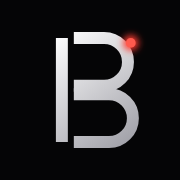
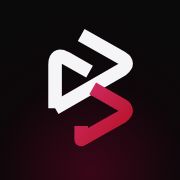
Nova marca: B angular + wordmark brio com círculo magenta; paleta preto #0A0A0A, vermelho #B51224, magenta #D12B65 no site, cadastro, login e ícones
Claude-Session: https://claude.ai/code/session_01J3H3EgfMHTmyFbtNvdJWwL

diff --git a/src/app/sobre/page.tsx b/src/app/sobre/page.tsx
@@ -1,43 +1,43 @@
 import Link from "next/link";
 import type { Metadata } from "next";
-import { BrioMark } from "@/components/brand";
+import { BrioMark, BrioWordmark } from "@/components/brand";
 import { SiteMotion } from "@/components/site/motion";
 import { Pricing } from "@/components/site/pricing";
 
 export const metadata: Metadata = { title: "BRIO · Constância com propósito", description: "Fé, corpo, dinheiro e estudos num só lugar. Missões diárias, sequência e XP que vêm do que você faz de verdade. A partir de R$ 0." };
 
-const FIRE = "linear-gradient(160deg,#ff6a3d,#e0393e 55%,#8a1a1d)";
+const FIRE = "linear-gradient(135deg,#d12b65,#b51224 70%)";
 
 /** Celular com uma miniatura do app (desenhada em código, mostra o que o app faz de verdade). */
 function Phone() {
   return (
     <div className="hero-stage" style={{ perspective: "1400px" }}>
-      <div className="mx-auto w-[280px] sm:w-[310px] rounded-[44px] p-2.5 border border-white/15 bg-[#0b0b0d] shadow-[0_60px_120px_-40px_rgba(224,57,62,.6)]"
+      <div className="mx-auto w-[280px] sm:w-[310px] rounded-[44px] p-2.5 border border-white/15 bg-[#0b0b0d] shadow-[0_60px_120px_-40px_rgba(209,43,101,.6)]"
         style={{ transform: "rotateX(calc((1 - var(--p, 0)) * 18deg)) rotateZ(calc((1 - var(--p, 0)) * -4deg))", transition: "transform .1s linear" }}>
         <div className="rounded-[36px] overflow-hidden bg-black p-3.5 grid gap-2.5" aria-hidden>
           <div className="flex justify-between text-[10px] text-white/60 px-1"><span>9:41</span><span>●●● 5G</span></div>
-          <div className="rounded-2xl p-3 border" style={{ borderColor: "#ff9f0a88", background: "radial-gradient(90% 60% at 50% 0%, #2a1a06, #0b0805)" }}>
+          <div className="rounded-2xl p-3 border" style={{ borderColor: "#d12b6599", background: "radial-gradient(90% 60% at 50% 0%, #3a0618, #0d070a)" }}>
             <div className="flex items-center gap-2">
               <span className="text-2xl">🔥</span>
-              <div><p className="text-[9px] tracking-[.3em] text-[#ff9f0a] font-bold">MISSÃO DIÁRIA · CHAMA</p><p className="text-[12px] font-semibold">Treinamento para ficar mais forte</p></div>
+              <div><p className="text-[9px] tracking-[.3em] text-[#ff4d8a] font-bold">MISSÃO DIÁRIA · CHAMA</p><p className="text-[12px] font-semibold">Treinamento para ficar mais forte</p></div>
             </div>
             <div className="grid grid-cols-3 gap-1.5 mt-2.5 text-center">
-              {[["5", "dias 100%"], ["12", "recorde"], ["4/6", "hoje"]].map(([v, l]) => <div key={l} className="rounded-lg bg-white/5 py-1.5"><p className="num text-base text-[#ffd27a]">{v}</p><p className="text-[8px] text-white/60">{l}</p></div>)}
+              {[["5", "dias 100%"], ["12", "recorde"], ["4/6", "hoje"]].map(([v, l]) => <div key={l} className="rounded-lg bg-white/5 py-1.5"><p className="num text-base text-[#ff4d8a]">{v}</p><p className="text-[8px] text-white/60">{l}</p></div>)}
             </div>
             {["Oração + estudo pessoal", "Treino feito", "Meta de água"].map((t, i) => (
-              <div key={t} className="flex items-center justify-between mt-1.5 rounded-lg px-2 py-1.5 bg-white/[.04] text-[11px]"><span className={i < 2 ? "line-through text-white/50" : ""}>{t}</span><span className="font-mono text-[10px]" style={{ color: i < 2 ? "#ff9f0a" : "#ffffff66" }}>[{i < 2 ? 1 : 0}/1]</span></div>))}
+              <div key={t} className="flex items-center justify-between mt-1.5 rounded-lg px-2 py-1.5 bg-white/[.04] text-[11px]"><span className={i < 2 ? "line-through text-white/50" : ""}>{t}</span><span className="font-mono text-[10px]" style={{ color: i < 2 ? "#ff4d8a" : "#ffffff66" }}>[{i < 2 ? 1 : 0}/1]</span></div>))}
           </div>
           <div className="grid grid-cols-2 gap-2">
-            <div className="rounded-2xl p-2.5 border border-[#e0393e55]" style={{ background: "linear-gradient(160deg,#2a0909,#0a0505)" }}>
-              <p className="text-[8px] tracking-[.25em] text-[#e0393e] font-bold">WAR ROOM</p><p className="text-[12px] font-semibold mt-0.5">Upper A</p>
-              <div className="flex gap-0.5 mt-2">{[1, 1, 1, 0, 0].map((x, i) => <i key={i} className="h-5 flex-1 rounded-sm" style={{ background: x ? "#e0393e" : "#ffffff14" }} />)}</div>
+            <div className="rounded-2xl p-2.5 border border-[#b5122466]" style={{ background: "linear-gradient(160deg,#2a050b,#0a0a0a)" }}>
+              <p className="text-[8px] tracking-[.25em] text-[#ff4d8a] font-bold">WAR ROOM</p><p className="text-[12px] font-semibold mt-0.5">Upper A</p>
+              <div className="flex gap-0.5 mt-2">{[1, 1, 1, 0, 0].map((x, i) => <i key={i} className="h-5 flex-1 rounded-sm" style={{ background: x ? "#d12b65" : "#ffffff14" }} />)}</div>
             </div>
-            <div className="rounded-2xl p-2.5 border border-[#30d15855] bg-[#06120a]">
-              <p className="text-[8px] tracking-[.25em] text-[#30d158] font-bold">DIETA</p><p className="num text-[18px] mt-0.5">1.840</p><p className="text-[9px] text-white/60">de 2.500 kcal</p>
+            <div className="rounded-2xl p-2.5 border border-white/10 bg-white/[.03]">
+              <p className="text-[8px] tracking-[.25em] text-[#ff4d8a] font-bold">DIETA</p><p className="num text-[18px] mt-0.5">1.840</p><p className="text-[9px] text-white/60">de 2.500 kcal</p>
             </div>
           </div>
-          <div className="rounded-2xl p-2.5 border border-[#5ab0ff44] bg-[#060a12] flex items-center gap-2">
-            <span className="h-7 w-7 rounded-lg grid place-items-center text-xs" style={{ background: "linear-gradient(135deg,#5ab0ff,#bf5af2)" }}>✦</span>
+          <div className="rounded-2xl p-2.5 border border-[#d12b6544] bg-[#0d070a] flex items-center gap-2">
+            <span className="h-7 w-7 rounded-lg grid place-items-center text-xs" style={{ background: "linear-gradient(135deg,#d12b65,#b51224)" }}>✦</span>
             <p className="text-[11px] text-white/80">“reunião quinta 19h30 e dentista sábado” → <b className="text-white">2 compromissos</b></p>
           </div>
         </div>
@@ -47,12 +47,12 @@ function Phone() {
 }
 
 const BENTO = [
-  { t: "Comece o dia sabendo o que importa", f: "missão diária", c: "#ffb340", big: true, d: "Uma lista curta de objetivos com sequência, recorde e contagem até a meia-noite. O fogo cresce com a sua constância.", tex: "radial-gradient(70% 60% at 30% 20%, rgba(255,179,64,.25), transparent 70%)" },
-  { t: "Treine com plano, não com palpite", f: "war room · periodização", c: "#e0393e", wide: true, d: "Campanha em fases, sugestão de carga por série e um treino guiado com cronômetro.", tex: "repeating-linear-gradient(90deg, rgba(224,57,62,.08) 0 2px, transparent 2px 14px)" },
-  { t: "Coma o que planejou (e registre o que não)", f: "dieta", c: "#30d158", d: "Metas de macros, refeições salvas e o que foi fora do plano, sem culpa.", tex: "radial-gradient(60% 60% at 80% 100%, rgba(48,209,88,.22), transparent 70%)" },
-  { t: "Fale e a agenda se organiza", f: "central de operações · IA", c: "#5ab0ff", d: "Linha do tempo do dia, Google Agenda em duas vias e IA que transforma frase em compromisso.", tex: "radial-gradient(50% 50% at 50% 50%, rgba(90,176,255,.18), transparent 60%)" },
-  { t: "Seu dinheiro sem surpresa", f: "finanças · parcelas", c: "#3ee6c1", wide: true, d: "Orçamento por categoria, compras parceladas que fecham no centavo e um assistente que lê seus números.", tex: "linear-gradient(180deg, rgba(62,230,193,.12), transparent 60%)" },
-  { t: "Estude até fechar", f: "central de estudos", c: "#bf5af2", wide: true, d: "Objetivo, fraquezas, plano feito pela IA, revisão espaçada e o próximo passo sempre à vista.", tex: "radial-gradient(70% 60% at 20% 100%, rgba(191,90,242,.22), transparent 70%)" },
+  { t: "Comece o dia sabendo o que importa", f: "missão diária", c: "#ff4d8a", big: true, d: "Uma lista curta de objetivos com sequência, recorde e contagem até a meia-noite. O fogo cresce com a sua constância.", tex: "radial-gradient(70% 60% at 30% 20%, rgba(209,43,101,.28), transparent 70%)" },
+  { t: "Treine com plano, não com palpite", f: "war room · periodização", c: "#ff4d8a", wide: true, d: "Campanha em fases, sugestão de carga por série e um treino guiado com cronômetro.", tex: "repeating-linear-gradient(90deg, rgba(181,18,36,.12) 0 2px, transparent 2px 14px)" },
+  { t: "Coma o que planejou (e registre o que não)", f: "dieta", c: "#ff4d8a", d: "Metas de macros, refeições salvas e o que foi fora do plano, sem culpa.", tex: "radial-gradient(60% 60% at 80% 100%, rgba(181,18,36,.24), transparent 70%)" },
+  { t: "Fale e a agenda se organiza", f: "central de operações · IA", c: "#ff4d8a", d: "Linha do tempo do dia, Google Agenda em duas vias e IA que transforma frase em compromisso.", tex: "radial-gradient(50% 50% at 50% 50%, rgba(209,43,101,.2), transparent 60%)" },
+  { t: "Seu dinheiro sem surpresa", f: "finanças · parcelas", c: "#ff4d8a", wide: true, d: "Orçamento por categoria, compras parceladas que fecham no centavo e um assistente que lê seus números.", tex: "linear-gradient(180deg, rgba(181,18,36,.16), transparent 60%)" },
+  { t: "Estude até fechar", f: "central de estudos", c: "#ff4d8a", wide: true, d: "Objetivo, fraquezas, plano feito pela IA, revisão espaçada e o próximo passo sempre à vista.", tex: "radial-gradient(70% 60% at 20% 100%, rgba(181,18,36,.22), transparent 70%)" },
 ];
 const FAQ = [
   ["Preciso de cartão para testar?", "Não. Você cria a conta, usa 14 dias com tudo liberado e decide depois."],
@@ -69,7 +69,7 @@ export default function Site() {
       {/* topo */}
       <nav className="sticky top-0 z-40 backdrop-blur-xl bg-black/60 border-b border-white/5">
         <div className="max-w-6xl mx-auto px-4 h-16 flex items-center justify-between">
-          <Link href="/sobre" className="flex items-center gap-2"><BrioMark size={30} glow={false} /><span className="font-display tracking-[.2em] text-lg">BRIO</span></Link>
+          <Link href="/sobre" className="flex items-center gap-2"><BrioWordmark height={26} /></Link>
           <div className="flex items-center gap-1 sm:gap-2">
             <a href="#planos" className="hidden sm:inline-flex min-h-11 items-center px-3 text-sm text-muted hover:text-ink">Planos</a>
             <Link href="/login" className="min-h-11 inline-flex items-center px-3 text-sm">Entrar</Link>
@@ -80,13 +80,13 @@ export default function Site() {
 
       {/* hero */}
       <section className="relative max-w-6xl mx-auto px-4 pt-12 sm:pt-20 pb-10 grid lg:grid-cols-2 gap-10 items-center">
-        <div className="absolute inset-x-0 -top-20 h-[520px] -z-10 pointer-events-none" style={{ background: "radial-gradient(50% 50% at 30% 30%, rgba(255,106,61,.22), transparent 70%), radial-gradient(40% 40% at 80% 20%, rgba(191,90,242,.18), transparent 70%)" }} />
+        <div className="absolute inset-x-0 -top-20 h-[520px] -z-10 pointer-events-none" style={{ background: "radial-gradient(50% 50% at 30% 30%, rgba(209,43,101,.24), transparent 70%), radial-gradient(40% 40% at 80% 20%, rgba(181,18,36,.2), transparent 70%)" }} />
         <div className="text-center lg:text-left">
-          <p className="in text-[11px] font-bold tracking-[.35em] text-[#ff9f0a]" data-i="0">CONSTÂNCIA COM PROPÓSITO</p>
-          <h1 className="in font-display text-[clamp(40px,8vw,72px)] leading-[1.02] mt-4" data-i="1">Faça o certo de novo amanhã.<br /><span className="bg-clip-text text-transparent" style={{ backgroundImage: "linear-gradient(90deg,#ffd27a,#ff6a3d,#e0393e)" }}>E veja isso crescer.</span></h1>
+          <p className="in text-[11px] font-bold tracking-[.35em] text-[#ff4d8a]" data-i="0">CONSTÂNCIA COM PROPÓSITO</p>
+          <h1 className="in font-display text-[clamp(40px,8vw,72px)] leading-[1.02] mt-4" data-i="1">Faça o certo de novo amanhã.<br /><span className="bg-clip-text text-transparent" style={{ backgroundImage: "linear-gradient(90deg,#ff4d8a,#d12b65,#b51224)" }}>E veja isso crescer.</span></h1>
           <p className="in text-lg text-white/75 mt-5 max-w-xl mx-auto lg:mx-0" data-i="2">Fé, treino, dieta, dinheiro e estudos num app só. Missões curtas todo dia, sequência que vira fogo e XP que vem do que você faz de verdade.</p>
           <div className="in flex flex-col sm:flex-row gap-3 mt-8 justify-center lg:justify-start" data-i="3">
-            <Link href="/cadastro?plano=essencial" className="min-h-14 px-8 rounded-2xl grid place-items-center font-semibold text-white press" style={{ background: FIRE, boxShadow: "0 18px 40px -16px #e0393e" }}>Testar 14 dias grátis</Link>
+            <Link href="/cadastro?plano=essencial" className="min-h-14 px-8 rounded-2xl grid place-items-center font-semibold text-white press" style={{ background: FIRE, boxShadow: "0 18px 40px -16px #d12b65" }}>Testar 14 dias grátis</Link>
             <a href="#planos" className="min-h-14 px-8 rounded-2xl grid place-items-center border border-white/15 press">Ver planos · a partir de R$ 0</a>
           </div>
           <p className="in text-xs text-muted mt-4" data-i="4">Sem cartão. Funciona no celular e no computador.</p>
@@ -105,7 +105,7 @@ export default function Site() {
               <p className="font-mono text-[11px] uppercase tracking-wider" style={{ color: b.c }}>{b.f}</p>
               <h3 className={`font-display mt-2 leading-tight ${b.big ? "text-3xl" : "text-xl"}`}>{b.t}</h3>
               <p className="text-sm text-white/70 mt-2">{b.d}</p>
-              {b.big && <div className="mt-6 flex items-end gap-3" aria-hidden>{["#f5f7ff", "#ffd27a", "#ff9f0a", "#ff6a1a", "#ff3b30", "#bf5af2"].map((c, k) => <span key={c} className="text-[28px] leading-none" style={{ filter: `drop-shadow(0 0 ${6 + k * 3}px ${c})`, fontSize: 18 + k * 6 }}>🔥</span>)}</div>}
+              {b.big && <div className="mt-6 flex items-end gap-3" aria-hidden>{["#f5f5f7", "#ff8fb5", "#ff4d8a", "#d12b65", "#b51224", "#7a0c18"].map((c, k) => <span key={c} className="text-[28px] leading-none" style={{ filter: `drop-shadow(0 0 ${6 + k * 3}px ${c})`, fontSize: 18 + k * 6 }}>🔥</span>)}</div>}
             </article>))}
         </div>
       </section>
@@ -116,7 +116,7 @@ export default function Site() {
         <ol className="grid md:grid-cols-3 gap-4 mt-10">
           {[["1", "Abra e veja a missão", "Poucos objetivos, o principal em destaque e quanto tempo falta para o dia acabar."], ["2", "Faça e registre", "Treino guiado, refeição com um toque, estudo com cronômetro. Cada registro vira XP."], ["3", "Veja o fogo crescer", "Sequência que muda de cor, patentes, eventos semanais e um bestiário de vitórias."]].map(([n, t, d], i) => (
             <li key={n} data-i={i} className="in rounded-[26px] p-6 border border-white/10 bg-white/[.03]">
-              <span className="num text-4xl bg-clip-text text-transparent" style={{ backgroundImage: "linear-gradient(90deg,#ffd27a,#ff6a3d)" }}>{n}</span>
+              <span className="num text-4xl bg-clip-text text-transparent" style={{ backgroundImage: "linear-gradient(90deg,#ff4d8a,#d12b65)" }}>{n}</span>
               <h3 className="font-display text-xl mt-2">{t}</h3><p className="text-sm text-white/70 mt-1">{d}</p>
             </li>))}
         </ol>
@@ -124,7 +124,7 @@ export default function Site() {
 
       {/* planos */}
       <section id="planos" className="max-w-6xl mx-auto px-4 py-16 scroll-mt-20">
-        <p className="in text-center text-[11px] font-bold tracking-[.35em] text-[#ff9f0a]">PLANOS</p>
+        <p className="in text-center text-[11px] font-bold tracking-[.35em] text-[#ff4d8a]">PLANOS</p>
         <h2 className="in font-display text-[clamp(30px,5vw,48px)] text-center mt-3">Preço de hábito, não de luxo.</h2>
         <p className="in text-center text-white/70 mt-2">Comece de graça. Suba de plano quando fizer sentido.</p>
         <div className="mt-8"><Pricing /></div>
@@ -144,17 +144,17 @@ export default function Site() {
 
       {/* cta final */}
       <section className="max-w-6xl mx-auto px-4 py-20">
-        <div className="in relative rounded-[36px] p-10 sm:p-16 text-center overflow-hidden border border-[#ff6a3d55]" style={{ background: "radial-gradient(80% 90% at 50% 120%, rgba(255,106,61,.45), transparent 60%), #0c0705" }}>
+        <div className="in relative rounded-[36px] p-10 sm:p-16 text-center overflow-hidden border border-[#d12b6566]" style={{ background: "radial-gradient(80% 90% at 50% 120%, rgba(181,18,36,.5), transparent 60%), #0d0609" }}>
           <div className="mx-auto w-fit"><BrioMark size={72} /></div>
           <h2 className="font-display text-[clamp(30px,6vw,56px)] mt-6 leading-tight">Hoje é o dia 1.</h2>
           <p className="text-white/75 mt-3 max-w-md mx-auto">O que você fizer de toda a alma hoje vira a base de amanhã.</p>
-          <Link href="/cadastro?plano=essencial" className="inline-grid place-items-center min-h-14 px-10 mt-8 rounded-2xl font-semibold text-white press" style={{ background: FIRE, boxShadow: "0 18px 40px -16px #e0393e" }}>Criar minha conta grátis</Link>
+          <Link href="/cadastro?plano=essencial" className="inline-grid place-items-center min-h-14 px-10 mt-8 rounded-2xl font-semibold text-white press" style={{ background: FIRE, boxShadow: "0 18px 40px -16px #d12b65" }}>Criar minha conta grátis</Link>
         </div>
       </section>
 
       <footer className="border-t border-white/5">
         <div className="max-w-6xl mx-auto px-4 py-8 flex flex-col sm:flex-row gap-3 items-center justify-between text-sm text-muted">
-          <span className="flex items-center gap-2"><BrioMark size={22} glow={false} /> BRIO · Vigor com honra</span>
+          <span className="flex items-center gap-3"><BrioWordmark height={18} /> Vigor com honra</span>
           <span className="flex gap-4"><Link href="/privacidade" className="hover:text-ink min-h-11 inline-flex items-center">Privacidade</Link><Link href="/termos" className="hover:text-ink min-h-11 inline-flex items-center">Termos</Link><Link href="/login" className="hover:text-ink min-h-11 inline-flex items-center">Entrar</Link></span>
         </div>
       </footer>

diff --git a/src/components/site/signup.tsx b/src/components/site/signup.tsx
@@ -3,15 +3,15 @@ import Link from "next/link";
 import { useSearchParams } from "next/navigation";
 import { useActionState, useState } from "react";
 import { signUp, type SignUpState } from "@/app/actions";
-import { BrioMark } from "@/components/brand";
+import { BrioMark, BrioWordmark } from "@/components/brand";
 import { PLANS, brlPrice, planById } from "@/lib/plans";
 
-const FIRE = "linear-gradient(160deg,#ff6a3d,#e0393e 55%,#8a1a1d)";
+const FIRE = "linear-gradient(135deg,#d12b65,#b51224 70%)";
 const AREAS = [
-  { id: "espiritual", e: "📖", t: "Vida espiritual", c: "#ffb340" }, { id: "ministerio", e: "💬", t: "Ministério", c: "#0a84ff" },
-  { id: "treino", e: "🏋", t: "Treino", c: "#e0393e" }, { id: "dieta", e: "🥗", t: "Dieta", c: "#30d158" },
-  { id: "financas", e: "💰", t: "Finanças", c: "#3ee6c1" }, { id: "estudos", e: "🎓", t: "Estudos", c: "#bf5af2" },
-  { id: "agenda", e: "📅", t: "Agenda", c: "#5ab0ff" }, { id: "habitos", e: "🔥", t: "Hábitos", c: "#ff9f0a" },
+  { id: "espiritual", e: "📖", t: "Vida espiritual", c: "#d12b65" }, { id: "ministerio", e: "💬", t: "Ministério", c: "#d12b65" },
+  { id: "treino", e: "🏋", t: "Treino", c: "#d12b65" }, { id: "dieta", e: "🥗", t: "Dieta", c: "#d12b65" },
+  { id: "financas", e: "💰", t: "Finanças", c: "#d12b65" }, { id: "estudos", e: "🎓", t: "Estudos", c: "#d12b65" },
+  { id: "agenda", e: "📅", t: "Agenda", c: "#d12b65" }, { id: "habitos", e: "🔥", t: "Hábitos", c: "#d12b65" },
 ];
 const STEPS = ["Você", "Foco", "Plano"];
 
@@ -50,7 +50,7 @@ export function SignUpFlow() {
         <ol className="flex gap-2" aria-label="Etapas do cadastro">
           {STEPS.map((s, i) => (
             <li key={s} className="flex-1" aria-current={i === step ? "step" : undefined}>
-              <span className="block h-1.5 rounded-full transition-all duration-500" style={{ background: i <= step ? "linear-gradient(90deg,#ffd27a,#ff6a3d)" : "rgba(255,255,255,.1)", boxShadow: i === step ? "0 0 12px #ff6a3d" : "none" }} />
+              <span className="block h-1.5 rounded-full transition-all duration-500" style={{ background: i <= step ? "linear-gradient(90deg,#ff4d8a,#d12b65)" : "rgba(255,255,255,.1)", boxShadow: i === step ? "0 0 12px #d12b65" : "none" }} />
               <span className={`block text-[11px] mt-1.5 ${i === step ? "text-ink font-semibold" : "text-muted"}`}>{i + 1}. {s}</span>
             </li>))}
         </ol>
@@ -96,9 +96,9 @@ export function SignUpFlow() {
             {PLANS.map((p) => { const on = plan === p.id; return (
               <button key={p.id} type="button" role="radio" aria-checked={on} onClick={() => setPlan(p.id)}
                 className="press relative rounded-2xl p-4 text-left border transition-all"
-                style={{ borderColor: on ? "#ff6a3d" : "rgba(255,255,255,.1)", background: on ? "linear-gradient(160deg, rgba(255,106,61,.18), transparent 80%)" : "rgba(255,255,255,.03)" }}>
+                style={{ borderColor: on ? "#d12b65" : "rgba(255,255,255,.1)", background: on ? "linear-gradient(160deg, rgba(209,43,101,.18), transparent 80%)" : "rgba(255,255,255,.03)" }}>
                 <span className="flex items-center justify-between gap-3">
-                  <span><span className="font-semibold">{p.name}</span>{p.highlight && <span className="ml-2 text-[10px] font-bold tracking-wider text-[#ff9f0a]">MAIS ESCOLHIDO</span>}<span className="block text-xs text-muted mt-0.5">{p.tagline}</span></span>
+                  <span><span className="font-semibold">{p.name}</span>{p.highlight && <span className="ml-2 text-[10px] font-bold tracking-wider text-[#ff4d8a]">MAIS ESCOLHIDO</span>}<span className="block text-xs text-muted mt-0.5">{p.tagline}</span></span>
                   <span className="text-right shrink-0"><span className="num text-xl">{brlPrice(p.price)}</span>{p.price > 0 && <span className="text-xs text-muted">/mês</span>}</span>
                 </span>
                 {on && <span className="block text-xs text-white/70 mt-2">{p.features.slice(p.id === "gratis" ? 0 : 1, p.id === "gratis" ? 3 : 4).join(" · ")}</span>}
@@ -112,7 +112,7 @@ export function SignUpFlow() {
         <div className="flex gap-2">
           {step > 0 && <button type="button" className="btn !min-h-14 px-5" onClick={() => setStep(step - 1)}>Voltar</button>}
           <button type="submit" disabled={pending || (step === 0 && !can0) || (step === 1 && !focus.length)}
-            className="flex-1 min-h-14 rounded-2xl font-semibold text-white press disabled:opacity-40" style={{ background: FIRE, boxShadow: "0 14px 34px -14px #e0393e" }}>
+            className="flex-1 min-h-14 rounded-2xl font-semibold text-white press disabled:opacity-40" style={{ background: FIRE, boxShadow: "0 14px 34px -14px #d12b65" }}>
             {pending ? "Criando sua conta…" : step < 2 ? "Continuar" : `Criar conta${plan !== "gratis" ? " e testar grátis" : ""}`}
           </button>
         </div>
@@ -126,19 +126,19 @@ function Shell({ children }: { children: React.ReactNode }) {
   return (
     <main className="min-h-dvh grid lg:grid-cols-[1.05fr_1fr]">
       {/* painel da marca (desktop) */}
-      <aside className="hidden lg:flex relative overflow-hidden flex-col justify-between p-12 border-r border-white/5" style={{ background: "radial-gradient(80% 60% at 30% 100%, rgba(255,106,61,.35), transparent 60%), radial-gradient(60% 50% at 90% 10%, rgba(191,90,242,.22), transparent 60%), #070506" }}>
-        <Link href="/sobre" className="flex items-center gap-2 w-fit"><BrioMark size={34} glow={false} /><span className="font-display tracking-[.2em] text-lg">BRIO</span></Link>
+      <aside className="hidden lg:flex relative overflow-hidden flex-col justify-between p-12 border-r border-white/5" style={{ background: "radial-gradient(80% 60% at 30% 100%, rgba(209,43,101,.34), transparent 60%), radial-gradient(60% 50% at 90% 10%, rgba(181,18,36,.22), transparent 60%), #0a0a0a" }}>
+        <Link href="/sobre" className="flex items-center gap-2 w-fit"><BrioWordmark height={30} /></Link>
         <div>
           <p className="font-display text-5xl leading-[1.05]">Constância<br />com propósito.</p>
           <ul className="grid gap-3 mt-8 text-white/80">
-            {["Missão diária curta, com o principal em destaque", "Sequência que vira fogo e XP do que é real", "Fé, treino, dieta, dinheiro e estudos num lugar"].map((t) => <li key={t} className="flex gap-3"><span className="text-[#ff9f0a]">✦</span>{t}</li>)}
+            {["Missão diária curta, com o principal em destaque", "Sequência que vira fogo e XP do que é real", "Fé, treino, dieta, dinheiro e estudos num lugar"].map((t) => <li key={t} className="flex gap-3"><span className="text-[#ff4d8a]">✦</span>{t}</li>)}
           </ul>
         </div>
         <p className="text-sm text-white/60 italic">“Tudo o que fizerem, trabalhem nisso de toda a alma.” — Colossenses 3:23</p>
       </aside>
       <section className="relative flex flex-col px-5 py-8 sm:px-10 lg:px-16 lg:py-14">
-        <div className="absolute inset-x-0 top-0 h-72 -z-10 lg:hidden" style={{ background: "radial-gradient(60% 80% at 50% 0%, rgba(255,106,61,.25), transparent 70%)" }} />
-        <Link href="/sobre" className="flex items-center gap-2 lg:hidden w-fit"><BrioMark size={30} glow={false} /><span className="font-display tracking-[.2em]">BRIO</span></Link>
+        <div className="absolute inset-x-0 top-0 h-72 -z-10 lg:hidden" style={{ background: "radial-gradient(60% 80% at 50% 0%, rgba(209,43,101,.26), transparent 70%)" }} />
+        <Link href="/sobre" className="flex items-center gap-2 lg:hidden w-fit"><BrioWordmark height={24} /></Link>
         <div className="w-full max-w-md mx-auto my-auto pt-8 lg:pt-0">{children}</div>
       </section>
     </main>

diff --git a/src/components/brand.tsx b/src/components/brand.tsx
@@ -1,18 +1,37 @@
-import { useId } from "react";
-/** Marca do BRIO (Lâmina): B geométrico partido, com o ponto aceso. */
+/** Marca BRIO (preto + vermelho): "b" geométrico com o círculo vermelho. Vetorial, sem depender de fonte. */
+export const BRAND_RED = "#d12b65";
+
+/** Símbolo: B angular em forma de "play" (traço claro) com o arco inferior em magenta. */
 export function BrioMark({ size = 96, glow = true }: { size?: number; glow?: boolean }) {
-  const gid = "brio-g" + useId().replace(/:/g, "");
   return (
-    <svg width={size} height={size} viewBox="0 0 512 512" aria-hidden style={glow ? { filter: "drop-shadow(0 0 22px rgba(255,255,255,.12))" } : undefined}>
-      <defs>
-        <linearGradient id={gid} gradientUnits="userSpaceOnUse" x1="150" y1="100" x2="400" y2="420"><stop offset="0" stopColor="#ffffff" /><stop offset="1" stopColor="#9a9aa2" /></linearGradient>
-      </defs>
-      <g fill="none" stroke={`url(#${gid})`} strokeWidth="34">
-        <path className="brio-rise" d="M176 108v296" />
-        <path className="brio-rise" style={{ animationDelay: ".12s" }} d="M210 108h86a68 68 0 0 1 0 136h-86" />
-        <path className="brio-rise" style={{ animationDelay: ".24s" }} d="M210 268h100a68 68 0 0 1 0 136h-100" />
+    <svg width={size} height={size} viewBox="14 6 96 112" aria-hidden style={glow ? { filter: "drop-shadow(0 0 18px rgba(209,43,101,.5))" } : undefined}>
+      <g fill="none" strokeWidth="13" strokeLinejoin="round">
+        <path d="M52 12 L91 34 Q99 39 91 45 L27 82" stroke="currentColor" />
+        <path d="M27 82 V40 Q27 29 37 34 L60 47" stroke="currentColor" />
+        <path className="brio-rise" d="M63 63 L91 79 Q99 84 91 90 L52 112 V99" stroke={BRAND_RED} />
       </g>
-      <circle className="brio-ember" cx="372" cy="122" r="14" fill="#ff453a" style={{ filter: "drop-shadow(0 0 10px #ff3b30)" }} />
+    </svg>
+  );
+}
+
+/** Logotipo por extenso: brio + círculo vermelho. */
+export function BrioWordmark({ height = 28, className = "" }: { height?: number; className?: string }) {
+  return (
+    <svg height={height} viewBox="0 0 282 110" className={className} role="img" aria-label="brio">
+      <g fill="currentColor">
+        <path d="M8 6l20 12v82H8z" />
+        <path d="M80 100h-20V48h20v8c6-7 13-10 24-10v20c-15 0-24 6-24 22z" transform="translate(-0 0)" opacity="0" />
+      </g>
+      <g fill="none" stroke="currentColor" strokeWidth="19">
+        <circle cx="50" cy="74" r="24" />
+        <circle cx="218" cy="74" r="24" />
+      </g>
+      <g fill="currentColor">
+        <path d="M95 50h19v50H95z" />
+        <path d="M114 70c0-14 9-22 26-22v19c-12 0-17 5-17 15v18h-9z" />
+        <path d="M150 50h19v50h-19z" />
+      </g>
+      <circle className="brio-ember" cx="267" cy="96" r="9" fill="none" stroke={BRAND_RED} strokeWidth="7" />
     </svg>
   );
 }

diff --git a/src/components/site/pricing.tsx b/src/components/site/pricing.tsx
@@ -17,8 +17,8 @@ export function Pricing() {
       <div className="grid md:grid-cols-3 gap-4 mt-8 items-stretch">
         {PLANS.map((p, i) => (
           <div key={p.id} data-i={i} className={`in tilt relative rounded-[28px] p-6 border flex flex-col ${p.highlight ? "md:-translate-y-3" : ""}`}
-            style={{ borderColor: p.highlight ? "#ff6a3d" : "rgba(255,255,255,.1)", background: p.highlight ? "radial-gradient(120% 80% at 50% 0%, rgba(255,106,61,.22), #0c0907 70%)" : "linear-gradient(170deg, rgba(255,255,255,.06), #0b0b0d 60%)", boxShadow: p.highlight ? "0 30px 80px -40px #ff6a3d" : "none" }}>
-            {p.highlight && <span className="absolute -top-3 left-1/2 -translate-x-1/2 text-[11px] font-bold tracking-[.2em] rounded-full px-3 py-1 text-black" style={{ background: "linear-gradient(90deg,#ffd27a,#ff6a3d)" }}>MAIS ESCOLHIDO</span>}
+            style={{ borderColor: p.highlight ? "#d12b65" : "rgba(255,255,255,.1)", background: p.highlight ? "radial-gradient(120% 80% at 50% 0%, rgba(209,43,101,.24), #0d070a 70%)" : "linear-gradient(170deg, rgba(255,255,255,.06), #0b0b0d 60%)", boxShadow: p.highlight ? "0 30px 80px -40px #d12b65" : "none" }}>
+            {p.highlight && <span className="absolute -top-3 left-1/2 -translate-x-1/2 text-[11px] font-bold tracking-[.2em] rounded-full px-3 py-1 text-black" style={{ background: "linear-gradient(90deg,#ff4d8a,#d12b65)" }}>MAIS ESCOLHIDO</span>}
             <p className="font-display text-2xl">{p.name}</p>
             <p className="text-sm text-muted mt-1">{p.tagline}</p>
             <p className="mt-5 flex items-baseline gap-1">
@@ -30,7 +30,7 @@ export function Pricing() {
               {p.features.map((f) => <li key={f} className="flex gap-2"><span aria-hidden className="text-[#30d158] mt-0.5">✓</span><span>{f}</span></li>)}
             </ul>
             <Link href={`/cadastro?plano=${p.id}`} className="mt-6 min-h-12 rounded-2xl grid place-items-center font-semibold press"
-              style={p.highlight ? { background: "linear-gradient(160deg,#ff6a3d,#e0393e 55%,#8a1a1d)", color: "#fff", boxShadow: "0 14px 34px -14px #e0393e" } : { border: "1px solid rgba(255,255,255,.15)" }}>
+              style={p.highlight ? { background: "linear-gradient(135deg,#d12b65,#b51224 70%)", color: "#fff", boxShadow: "0 14px 34px -14px #d12b65" } : { border: "1px solid rgba(255,255,255,.15)" }}>
               {p.price ? "Testar 14 dias grátis" : "Começar grátis"}</Link>
           </div>))}
       </div>

diff --git a/src/app/login/page.tsx b/src/app/login/page.tsx
@@ -3,7 +3,7 @@ import Link from "next/link";
 import { Suspense, useActionState, useState } from "react";
 import { useSearchParams } from "next/navigation";
 import { signIn } from "@/app/actions";
-import { BrioMark } from "@/components/brand";
+import { BrioMark, BrioWordmark } from "@/components/brand";
 
 const AVISOS: Record<string, string> = {
   config: "Faltam as variáveis do Supabase na Vercel. Adicione e faça um novo deploy.",
@@ -22,8 +22,8 @@ export default function Login() {
     <main className="min-h-dvh brio-aura grid place-items-center px-4 py-10">
       <div className="w-full max-w-sm">
         <div className="flex flex-col items-center rise">
-          <BrioMark size={112} />
-          <h1 className="font-display text-5xl tracking-[.2em] mt-5 pl-[.2em]">BRIO</h1>
+          <BrioMark size={84} />
+          <h1 className="mt-6"><span className="sr-only">BRIO</span><BrioWordmark height={44} /></h1>
           <p className="text-muted mt-2 text-sm tracking-wide">Vigor com honra.</p>
         </div>
         <Suspense><Aviso /></Suspense>
@@ -35,7 +35,7 @@ export default function Login() {
           </div>
           {error && <p role="alert" className="text-sm text-[#ff6961]">{error}</p>}
           <button disabled={pending} className="press min-h-14 rounded-2xl text-base font-semibold text-white disabled:opacity-60 mt-1"
-            style={{ background: "linear-gradient(160deg,#ff6a3d,#e0393e 55%,#8a1a1d)", boxShadow: "0 14px 34px -14px #e0393e" }}>
+            style={{ background: "linear-gradient(135deg,#d12b65,#b51224 70%)", boxShadow: "0 14px 34px -14px #d12b65" }}>
             {pending ? "Entrando…" : "Entrar"}
           </button>
         </form>

diff --git a/src/app/globals.css b/src/app/globals.css
@@ -1,7 +1,11 @@
 @import "tailwindcss";
 
 @theme {
-  --color-base: #000000;
+  --color-base: #0a0a0a;
+  /* Marca: preto + vermelho + magenta. Preenchimentos usam red/magenta; texto colorido pequeno usa brand-text (6,3:1). */
+  --color-brand-red: #b51224;
+  --color-brand-magenta: #d12b65;
+  --color-brand-text: #ff4d8a;
   --color-ink: #f5f5f7;
   --color-muted: #8e8e93;
   --color-faint: #84848a; /* era #5a5a5f (3,06:1). Agora ≥4,5:1 sobre preto e cards (biblioteca GEN-A11Y-03) */
